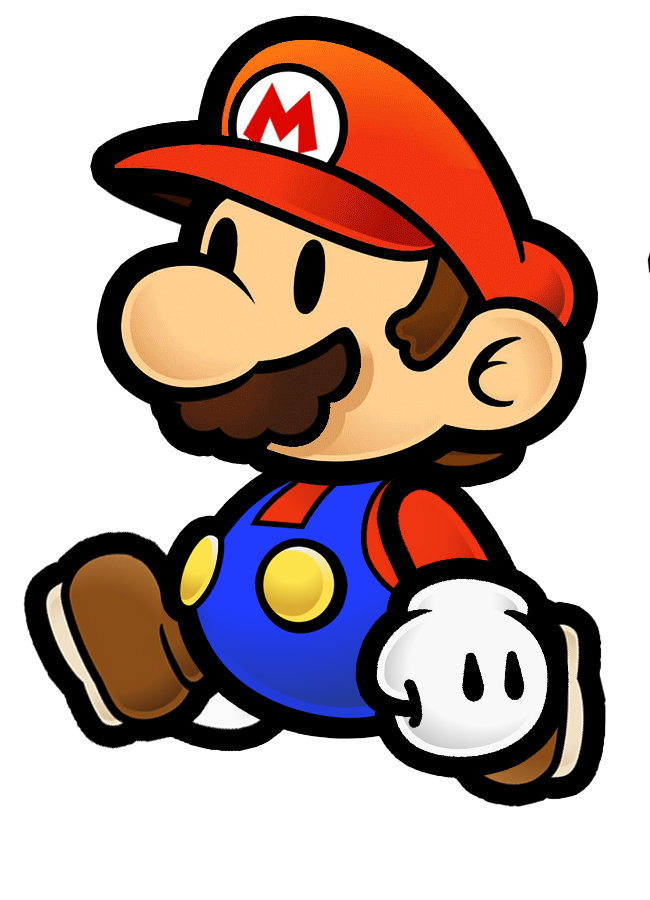
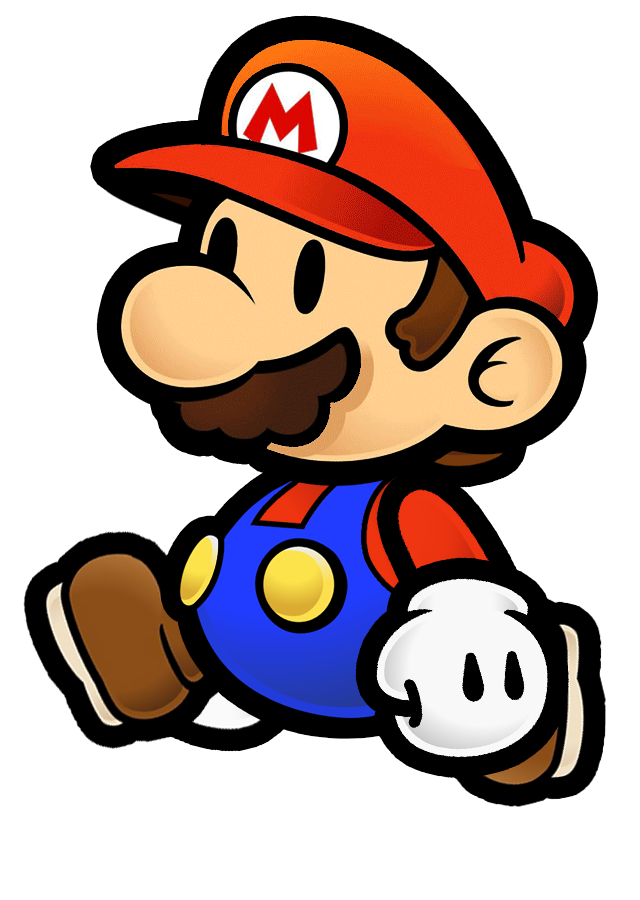
fixed image bounds

diff --git a/src/game_engine/util/ImageCropper.java b/src/game_engine/util/ImageCropper.java
@@ -24,6 +24,6 @@ public class ImageCropper {
     }
     
     public static void main(String[] args){
-        ImageCropper cropper = new ImageCropper("resources/images/paperMarioSpriteSheetLarge.png",580,10,650,900,"resources/images/cropTest.png");
+        ImageCropper cropper = new ImageCropper("resources/images/paperMarioSpriteSheetLarge.png",580,10,640,900,"resources/images/cropTest.png");
     }
 }
